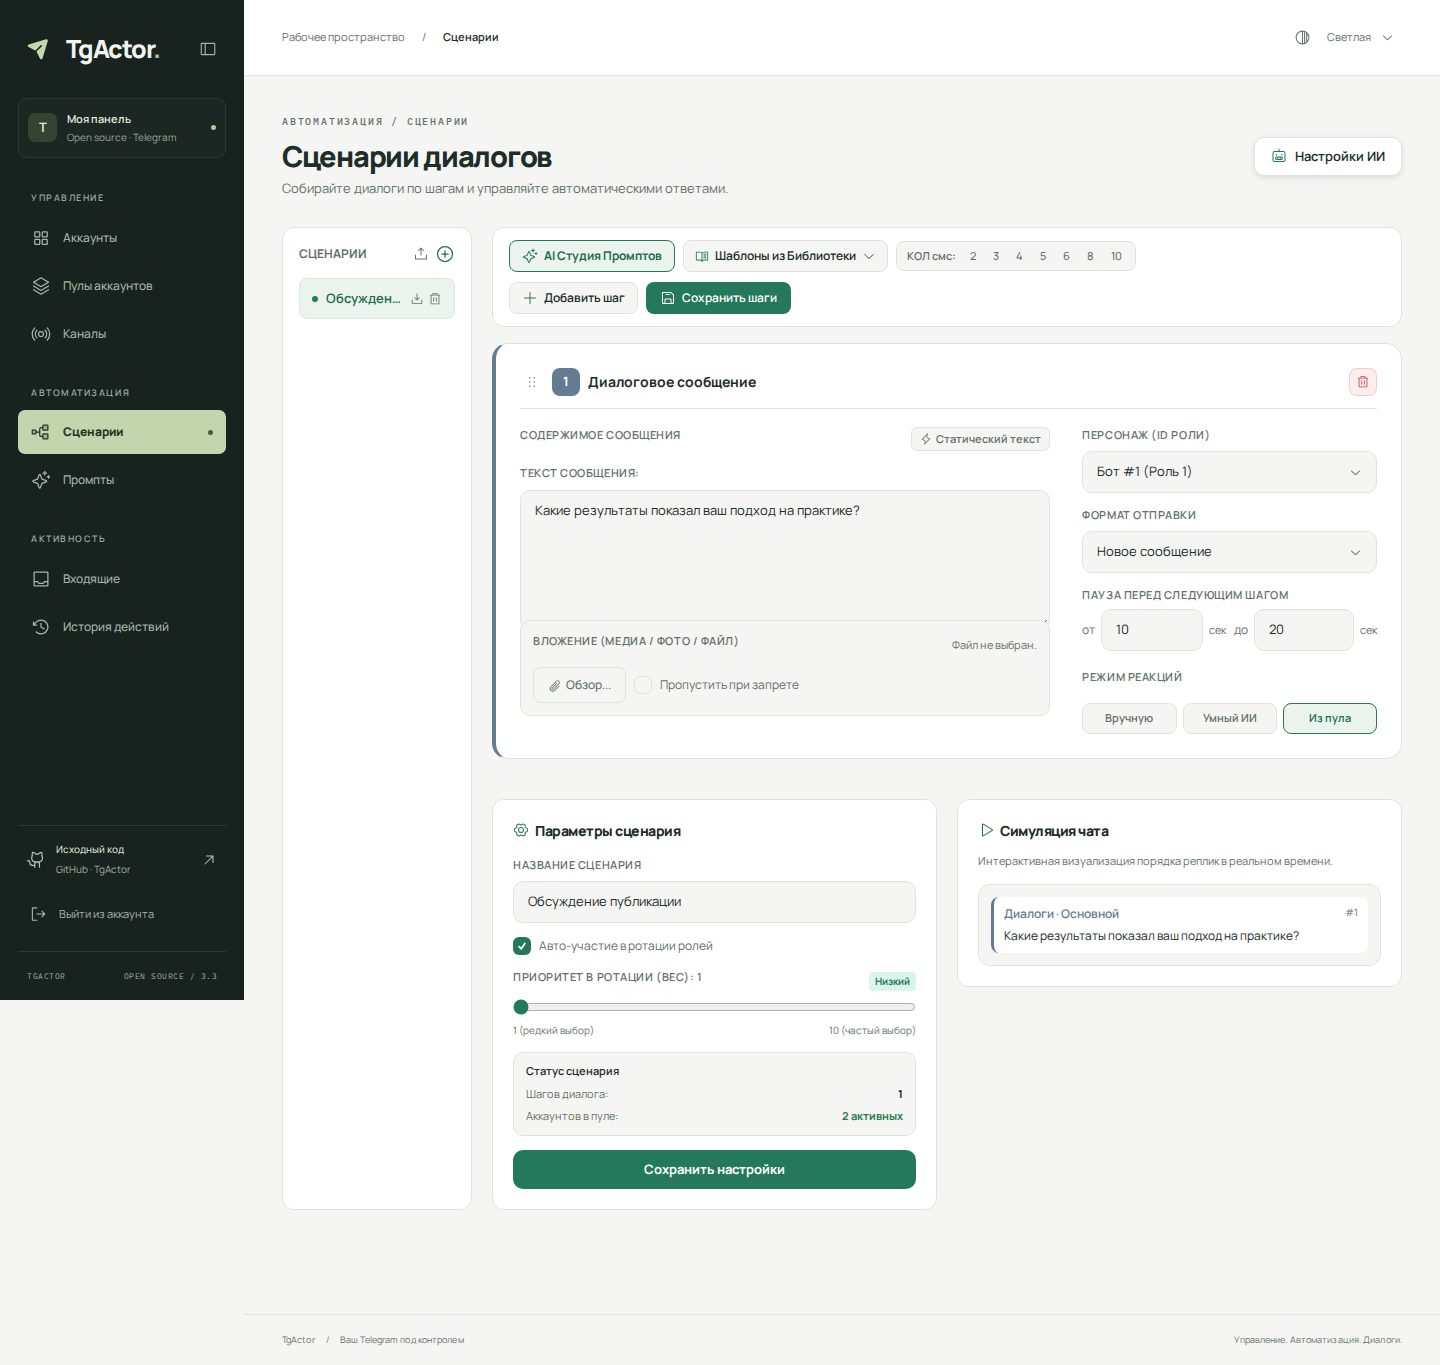
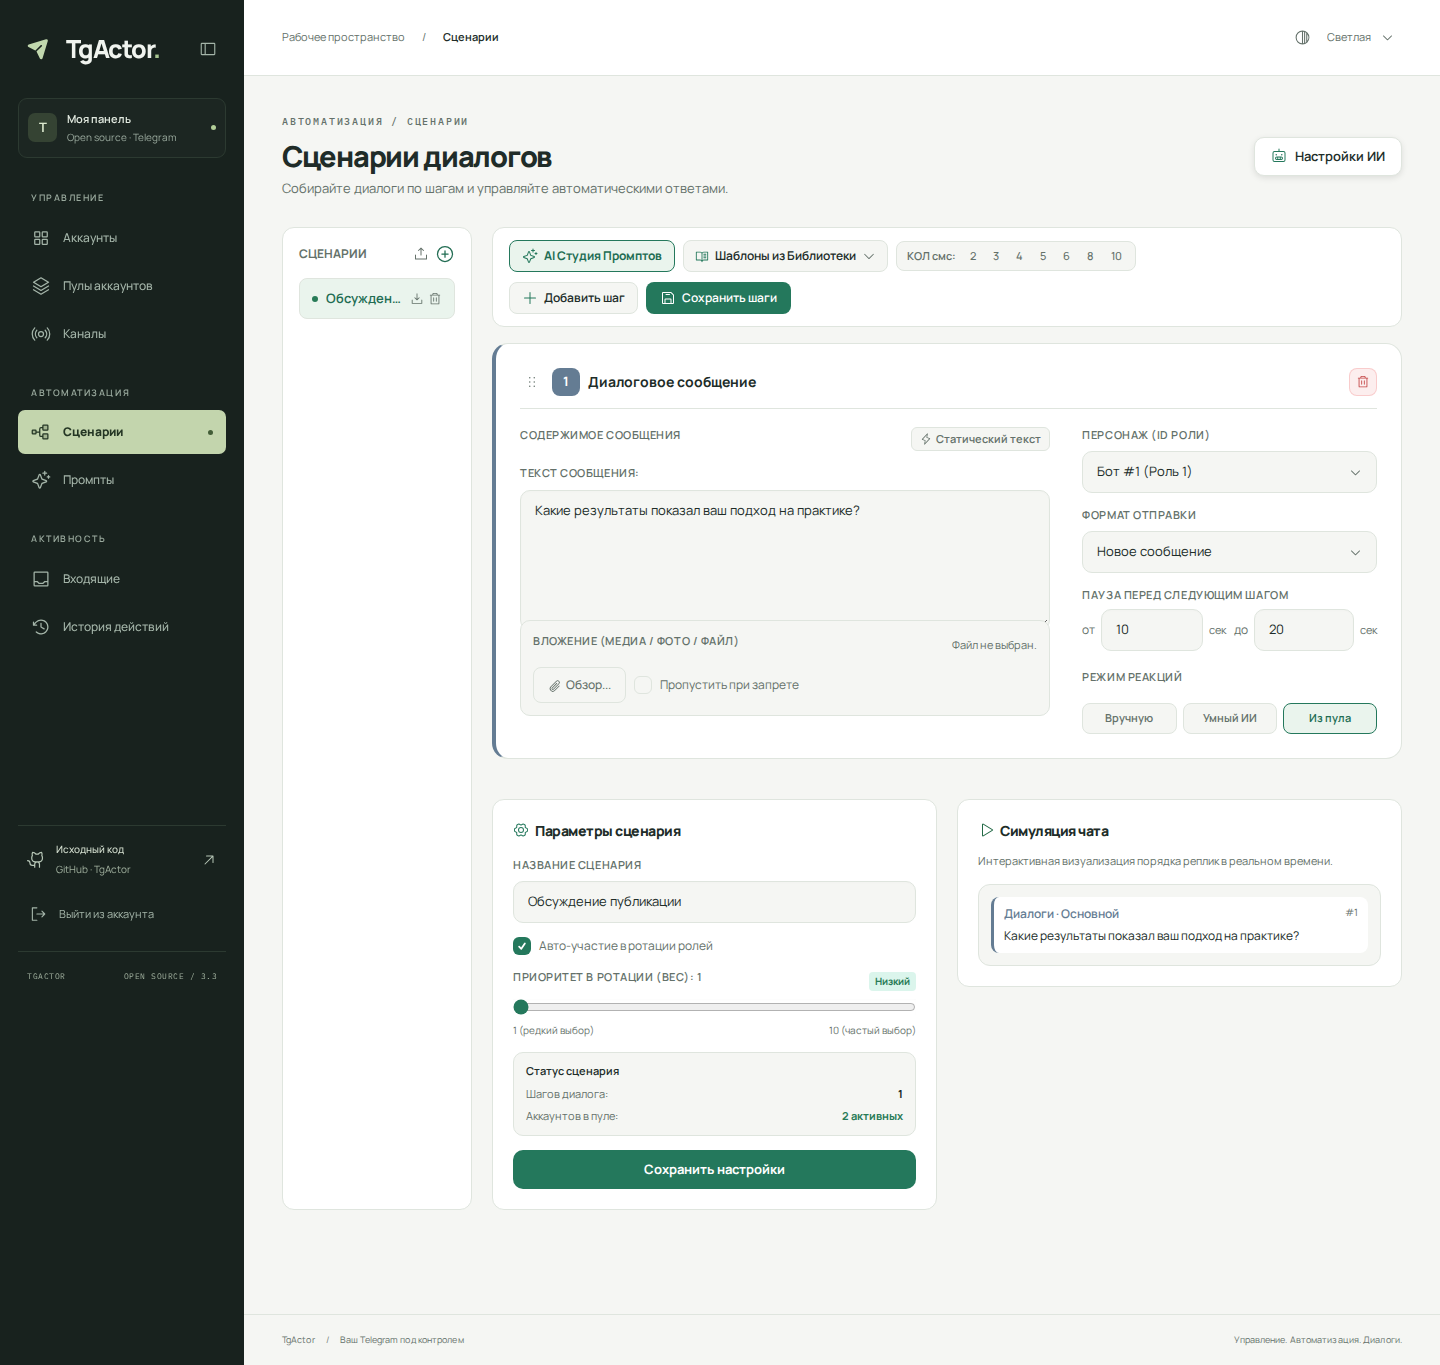
Fix sidebar background on long workspace pages
Stretch the navigation column with the document while keeping its controls sticky. Preserve the mobile drawer, add scroll and height regression coverage, and refresh documentation screenshots.

Changed region(s): [[0.0, 0.7077, 0.1875, 1.0], [0.0312, 0.6154, 0.0938, 0.6462], [0.0625, 0.0308, 0.0938, 0.0615]]

diff --git a/frontend/src/App.tsx b/frontend/src/App.tsx
@@ -225,90 +225,92 @@ function Layout({ children }: { children: React.ReactNode }) {
         role={mobileDrawerOpen ? 'dialog' : undefined}
         aria-modal={mobileDrawerOpen || undefined}
       >
-        <div className="sidebar-brand">
-          <Brand compact={collapsed} />
-          <button
-            className="sidebar-collapse desktop-only"
-            onClick={() => setCollapsed(!collapsed)}
-            aria-label={
-              collapsed ? 'Развернуть навигацию' : 'Свернуть навигацию'
-            }
-          >
-            <SidebarSimple size={18} />
-          </button>
-          <button
-            className="sidebar-collapse mobile-only"
-            onClick={() => setMobileDrawerOpen(false)}
-            aria-label="Закрыть навигацию"
-          >
-            <X size={20} />
-          </button>
-        </div>
-        {!collapsed && (
-          <div className="workspace-label">
-            <span className="workspace-avatar">T</span>
-            <div>
-              <strong>Моя панель</strong>
-              <span>Open source · Telegram</span>
-            </div>
-            <span className="workspace-label-dot" />
-          </div>
-        )}
-        <nav className="sidebar-navigation">
-          {navigation.map((item) => {
-            const active = location.pathname === item.path;
-            const Icon = item.icon;
-            return (
-              <React.Fragment key={item.path}>
-                {item.section && (
-                  <div className="nav-section">
-                    {collapsed ? <span /> : item.section}
-                  </div>
-                )}
-                <Link
-                  to={item.path}
-                  className={`nav-link ${active ? 'is-active' : ''}`}
-                  aria-current={active ? 'page' : undefined}
-                  title={collapsed ? item.label : undefined}
-                >
-                  <Icon size={20} weight={active ? 'duotone' : 'regular'} />
-                  <span>{item.label}</span>
-                  {active && <span className="nav-active-dot" />}
-                </Link>
-              </React.Fragment>
-            );
-          })}
-        </nav>
-        <div className="sidebar-footer">
-          {!collapsed && (
-            <a
-              className="creator-link"
-              href="https://github.com/ivanchik-byte/TgActor"
-              target="_blank"
-              rel="noopener noreferrer"
+        <div className="sidebar-content">
+          <div className="sidebar-brand">
+            <Brand compact={collapsed} />
+            <button
+              className="sidebar-collapse desktop-only"
+              onClick={() => setCollapsed(!collapsed)}
+              aria-label={
+                collapsed ? 'Развернуть навигацию' : 'Свернуть навигацию'
+              }
             >
-              <GithubLogo size={19} />
-              <div>
-                <strong>Исходный код</strong>
-                <span>GitHub · TgActor</span>
-              </div>
-              <ArrowUpRight size={16} />
-            </a>
-          )}
-          <button
-            className="logout-button"
-            onClick={handleLogout}
-            title="Выйти"
-          >
-            <SignOut size={18} />
-            {!collapsed && <span>Выйти из аккаунта</span>}
-          </button>
+              <SidebarSimple size={18} />
+            </button>
+            <button
+              className="sidebar-collapse mobile-only"
+              onClick={() => setMobileDrawerOpen(false)}
+              aria-label="Закрыть навигацию"
+            >
+              <X size={20} />
+            </button>
+          </div>
           {!collapsed && (
-            <div className="sidebar-version">
-              <span>TGACTOR</span>
-              <span>OPEN SOURCE / 3.3</span>
+            <div className="workspace-label">
+              <span className="workspace-avatar">T</span>
+              <div>
+                <strong>Моя панель</strong>
+                <span>Open source · Telegram</span>
+              </div>
+              <span className="workspace-label-dot" />
             </div>
           )}
+          <nav className="sidebar-navigation">
+            {navigation.map((item) => {
+              const active = location.pathname === item.path;
+              const Icon = item.icon;
+              return (
+                <React.Fragment key={item.path}>
+                  {item.section && (
+                    <div className="nav-section">
+                      {collapsed ? <span /> : item.section}
+                    </div>
+                  )}
+                  <Link
+                    to={item.path}
+                    className={`nav-link ${active ? 'is-active' : ''}`}
+                    aria-current={active ? 'page' : undefined}
+                    title={collapsed ? item.label : undefined}
+                  >
+                    <Icon size={20} weight={active ? 'duotone' : 'regular'} />
+                    <span>{item.label}</span>
+                    {active && <span className="nav-active-dot" />}
+                  </Link>
+                </React.Fragment>
+              );
+            })}
+          </nav>
+          <div className="sidebar-footer">
+            {!collapsed && (
+              <a
+                className="creator-link"
+                href="https://github.com/ivanchik-byte/TgActor"
+                target="_blank"
+                rel="noopener noreferrer"
+              >
+                <GithubLogo size={19} />
+                <div>
+                  <strong>Исходный код</strong>
+                  <span>GitHub · TgActor</span>
+                </div>
+                <ArrowUpRight size={16} />
+              </a>
+            )}
+            <button
+              className="logout-button"
+              onClick={handleLogout}
+              title="Выйти"
+            >
+              <SignOut size={18} />
+              {!collapsed && <span>Выйти из аккаунта</span>}
+            </button>
+            {!collapsed && (
+              <div className="sidebar-version">
+                <span>TGACTOR</span>
+                <span>OPEN SOURCE / 3.3</span>
+              </div>
+            )}
+          </div>
         </div>
       </aside>
       <div className="workspace-body">

diff --git a/frontend/src/index.css b/frontend/src/index.css
@@ -162,9 +162,10 @@ input[type=number] { appearance: textfield; }
 .skip-link:focus { top: 12px; }
 
 /* The dark navigation is the visual anchor in every theme. */
-.workspace { --sidebar-width: 244px; --sidebar-bg: #18221e; --sidebar-text: #a4b5a9; --sidebar-line: #2c3a31; min-height: 100dvh; }
+.workspace { --sidebar-width: 244px; --sidebar-bg: #18221e; --sidebar-text: #a4b5a9; --sidebar-line: #2c3a31; min-height: 100dvh; display: grid; grid-template-columns: var(--sidebar-width) minmax(0, 1fr); }
 .workspace-collapsed { --sidebar-width: 80px; }
-.workspace-sidebar { position: fixed; inset: 0 auto 0 0; width: var(--sidebar-width); display: flex; flex-direction: column; background: var(--sidebar-bg); color: var(--sidebar-text); padding: 30px 18px 18px; z-index: 40; }
+.workspace-sidebar { min-width: 0; background: var(--sidebar-bg); color: var(--sidebar-text); z-index: 40; }
+.sidebar-content { position: sticky; top: 0; height: 100dvh; display: flex; flex-direction: column; padding: 30px 18px 18px; }
 .brand { display: flex; align-items: center; gap: 10px; color: #f0f4ef; font-size: 25px; font-weight: 800; letter-spacing: -1.2px; white-space: nowrap; }
 .brand-mark { width: 35px; height: 35px; display: grid; place-items: center; color: #c1d8ae; }
 .brand-period { color: #a9c791; }
@@ -197,7 +198,7 @@ input[type=number] { appearance: textfield; }
 .workspace-collapsed .sidebar-brand { flex-direction: column; gap: 12px; padding-bottom: 6px; }
 .workspace-collapsed .nav-section { height: 34px; }
 .workspace-collapsed .logout-button { justify-content: center; padding-inline: 0; }
-.workspace-body { margin-left: var(--sidebar-width); min-width: 0; min-height: 100dvh; display: flex; flex-direction: column; }
+.workspace-body { min-width: 0; min-height: 100dvh; display: flex; flex-direction: column; }
 .workspace-topbar { height: 76px; padding: 0 38px; border-bottom: 1px solid var(--border-color); display: flex; align-items: center; justify-content: space-between; gap: 16px; background: var(--bg-card); }
 .topbar-breadcrumb { display: flex; align-items: center; gap: 17px; font-size: 11px; }
 .breadcrumb-root, .breadcrumb-divider { color: var(--text-muted); }
@@ -309,7 +310,7 @@ input[type=number] { appearance: textfield; }
 @media (max-width: 1200px) {
   .workspace { --sidebar-width: 216px; }
   .workspace-collapsed { --sidebar-width: 76px; }
-  .workspace-sidebar { padding-inline: 12px; }
+  .sidebar-content { padding-inline: 12px; }
   .workspace-main { padding: 30px 24px; }
   .workspace-topbar { padding-inline: 24px; }
   .metric { padding: 20px 16px; }
@@ -320,8 +321,9 @@ input[type=number] { appearance: textfield; }
 @media (max-width: 767px) {
   .mobile-only { display: inline-flex !important; }
   .desktop-only { display: none !important; }
-  .workspace, .workspace-collapsed { --sidebar-width: 0px; }
-  .workspace-sidebar { width: 270px; transform: translateX(-100%); padding: 24px 18px; transition: transform 260ms cubic-bezier(.16,1,.3,1); visibility: hidden; }
+  .workspace, .workspace-collapsed { --sidebar-width: 0px; display: block; }
+  .workspace-sidebar { position: fixed; inset: 0 auto 0 0; width: 270px; transform: translateX(-100%); transition: transform 260ms cubic-bezier(.16,1,.3,1); visibility: hidden; }
+  .sidebar-content { position: static; padding: 24px 18px; }
   .workspace-sidebar.is-open { transform: translateX(0); visibility: visible; }
   .workspace-collapsed .nav-link { justify-content: flex-start; padding-inline: 13px; }
   .workspace-collapsed .nav-link > span { display: inline; }

diff --git a/frontend/e2e/workspace.spec.ts b/frontend/e2e/workspace.spec.ts
@@ -532,3 +532,47 @@ test('prompt deletion uses a styled confirmation and preserves cancellation', as
   await request;
   await expect(dialog).toHaveCount(0);
 });
+
+test('navigation covers long pages and remains visible while scrolling', async ({
+  page,
+  isMobile,
+}) => {
+  await authenticate(page);
+  await page.goto('/');
+  await expect(
+    page.getByText('Диалоги · Основной', { exact: true }),
+  ).toBeVisible();
+  if (isMobile) {
+    await page.getByRole('button', { name: 'Открыть навигацию' }).click();
+    const drawer = page.getByRole('dialog', { name: 'Навигация' });
+    await expect(drawer).toBeVisible();
+    const height = await drawer.evaluate(
+      (element) => element.getBoundingClientRect().height,
+    );
+    expect(height).toBeCloseTo(page.viewportSize()!.height, 0);
+    await expect(
+      drawer.getByRole('button', { name: 'Выйти из аккаунта' }),
+    ).toBeInViewport();
+    return;
+  }
+
+  const sidebar = page.getByRole('complementary', { name: 'Навигация' });
+  const pageHeight = await page.evaluate(
+    () => document.documentElement.scrollHeight,
+  );
+  expect(pageHeight).toBeGreaterThan(page.viewportSize()!.height);
+  await expect
+    .poll(() =>
+      sidebar.evaluate((element) => element.getBoundingClientRect().height),
+    )
+    .toBeGreaterThanOrEqual(pageHeight - 1);
+  await page.evaluate(() =>
+    window.scrollTo(0, document.documentElement.scrollHeight),
+  );
+  await expect(
+    sidebar.getByRole('link', { name: 'Аккаунты', exact: true }),
+  ).toBeInViewport();
+  await expect(
+    sidebar.getByRole('button', { name: 'Выйти из аккаунта' }),
+  ).toBeInViewport();
+});

diff --git a/docs/frontend/DESIGN.md b/docs/frontend/DESIGN.md
@@ -45,6 +45,6 @@ Vite передаёт `/api`, `/media` и `/ws` на локальный backend 
 
 ## Проверка
 
-32 браузерные проверки в Chromium: 16 сценариев на компьютере и телефоне. Покрыты семь разделов с данными, вход и ошибка пароля, поиск и фильтрация аккаунтов, запрос кода Telegram, сохранение темы, навигация, сохранение шагов сценария, отправка сообщения из инбокса, пустой список и ошибка сервера. Проверяется отсутствие горизонтального выхода содержимого за границы экрана, включая ширины 360, 375, 768 и 1024 px. Удаление шаблона проверяется с отменой и подтверждением.
+34 браузерные проверки в Chromium: 17 сценариев на компьютере и телефоне. Покрыты семь разделов с данными, вход и ошибка пароля, поиск и фильтрация аккаунтов, запрос кода Telegram, сохранение темы, навигация, сохранение шагов сценария, отправка сообщения из инбокса, пустой список и ошибка сервера. Отдельно проверяются фон навигации на всю высоту длинной страницы, доступность меню при прокрутке и высота мобильной панели. Проверяется отсутствие горизонтального выхода содержимого за границы экрана, включая ширины 360, 375, 768 и 1024 px. Удаление шаблона проверяется с отменой и подтверждением.
 
 Скриншоты можно получить командой `CAPTURE_UI=1 npm test`; они сохраняются в игнорируемом каталоге `frontend/test-results`. Эти проверки подтверждают поведение фронтенда и контракт запросов, а не работу реального Telegram или внешнего ИИ.
